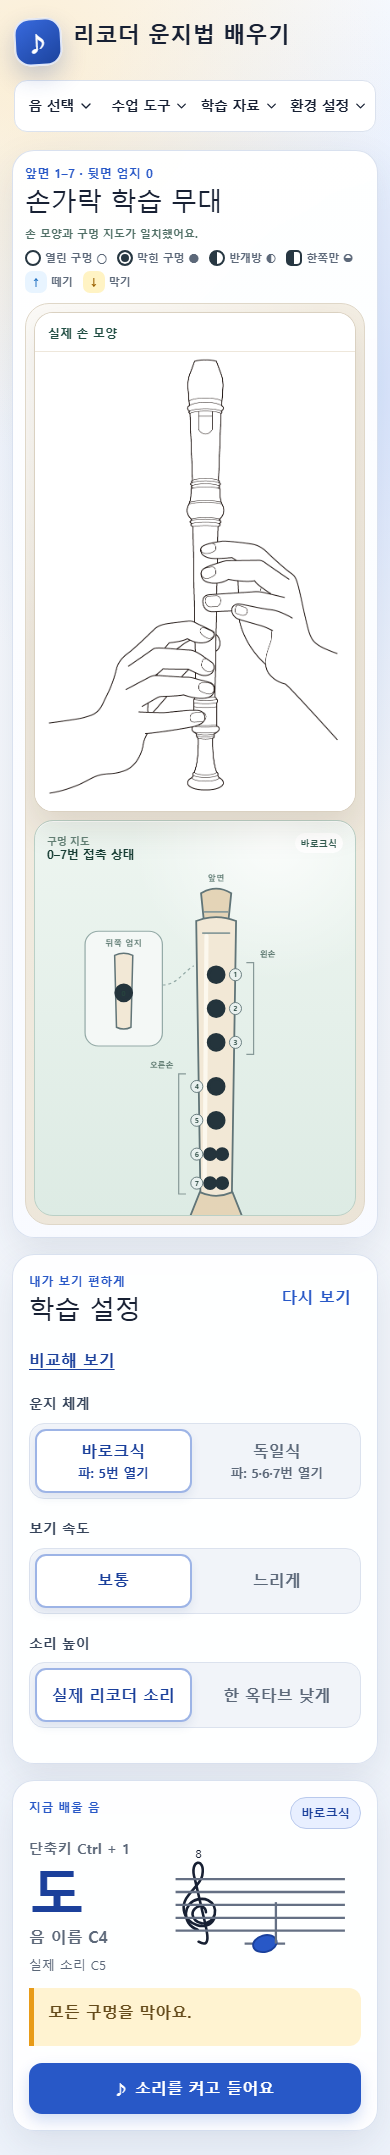
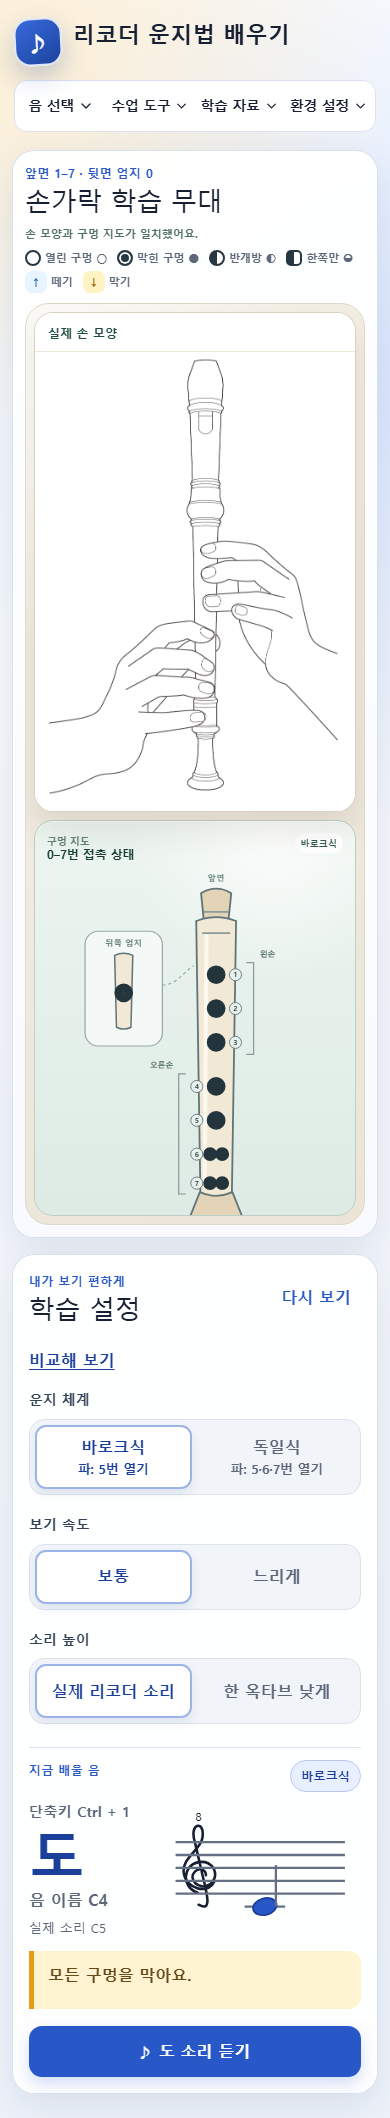
feat: merge note details into settings panel

diff --git a/app/teacher.css b/app/teacher.css
@@ -1,13 +1,13 @@
-/* Teacher workspace: the three teaching panels stay on the main screen. */
+/* Teacher workspace: the learning stage and merged control panel share one row. */
 .recorder-app:not([data-classroom]) .learning-grid {
   grid-template-columns: minmax(0, 1fr) clamp(160px, 14vw, 200px);
-  grid-template-rows: auto 1fr;
-  grid-template-areas: "scene settings" "scene note";
-  align-items: start;
+  grid-template-rows: auto;
+  grid-template-areas: "scene settings";
+  align-items: stretch;
 }
 .recorder-app:not([data-classroom]) .scene-card { padding: 4px; }
 .recorder-app:not([data-classroom]) .recorder-scene { gap: 3px; padding: 3px; }
-.recorder-app:not([data-classroom]) :is(.settings-area, .note-area) { min-width: 0; }
+.recorder-app:not([data-classroom]) .settings-area { position: relative; display: flex; min-width: 0; min-height: 0; }
 .app-header.teacher-header {
   position: relative;
   z-index: 30;
@@ -66,25 +66,49 @@
   font-weight: 700;
 }
 .teacher-menu-items :is(button, a):hover { background: var(--color-primary-soft); color: var(--color-primary-strong); }
-.recorder-app:not([data-classroom]) .settings-card { display: block; }
-.recorder-app:not([data-classroom]) .settings-card > .text-link { display: inline-block; margin: 0 0 12px; }
+.recorder-app:not([data-classroom]) .settings-card { display: flex; flex: 1 1 auto; min-width: 0; flex-direction: column; }
+.recorder-app:not([data-classroom]) .settings-card > .text-link { display: inline-block; margin: 0 0 8px; }
+.recorder-app:not([data-classroom]) .note-card--embedded {
+  min-width: 0;
+  margin-top: auto;
+  padding: 12px 0 0;
+  border-top: 1px solid var(--color-line);
+}
 @media (min-width: 761px) {
-  .recorder-app:not([data-classroom]) :is(.settings-area .settings-card, .note-area .note-card) { padding: 10px; }
-  .recorder-app:not([data-classroom]) .settings-area .settings-card > .section-heading-row {
-    align-items: stretch;
-    flex-direction: column;
-    gap: 6px;
+  .recorder-app:not([data-classroom]) .settings-area .settings-card {
+    position: absolute;
+    inset: 0;
+    overflow-y: auto;
+    overscroll-behavior: contain;
+    padding: 10px;
   }
-  .recorder-app:not([data-classroom]) .settings-area .settings-card > .section-heading-row .text-button { width: 100%; }
-  .recorder-app:not([data-classroom]) .settings-area .setting-fieldset { margin-bottom: 12px; }
-  .recorder-app:not([data-classroom]) .settings-area .segmented-control { grid-template-columns: minmax(0, 1fr) !important; }
-  .recorder-app:not([data-classroom]) .settings-area .segment-option { min-height: 48px; padding: 6px 4px; }
-  .recorder-app:not([data-classroom]) .note-area .card-eyebrow-row { flex-wrap: wrap; gap: 6px; }
-  .recorder-app:not([data-classroom]) .note-area .note-card-main { grid-template-columns: minmax(0, 1fr); }
-  .recorder-app:not([data-classroom]) .note-area .staff-note { min-width: 0; max-width: 100%; }
-  .recorder-app:not([data-classroom]) .note-area .current-solfege { font-size: 3rem; }
-  .recorder-app:not([data-classroom]) .note-area .note-short-instruction { min-height: 0; padding: 10px; }
-  .recorder-app:not([data-classroom]) .note-area .primary-button { padding-inline: 6px; }
+  .recorder-app:not([data-classroom]) .settings-area .settings-card > .section-heading-row {
+    align-items: center;
+    flex-direction: row;
+    gap: 4px;
+    margin-bottom: 8px;
+  }
+  .recorder-app:not([data-classroom]) .settings-area .settings-card > .section-heading-row > div { min-width: 0; }
+  .recorder-app:not([data-classroom]) .settings-area .settings-card > .section-heading-row .eyebrow { font-size: .65rem; }
+  .recorder-app:not([data-classroom]) .settings-area .settings-card > .section-heading-row h2 { font-size: 1.2rem; }
+  .recorder-app:not([data-classroom]) .settings-area .settings-card > .section-heading-row .text-button { min-height: 44px; padding-inline: 6px; font-size: .75rem; }
+  .recorder-app:not([data-classroom]) .settings-area .setting-fieldset { margin-bottom: 8px; }
+  .recorder-app:not([data-classroom]) .settings-area .setting-fieldset legend { margin-bottom: 4px; font-size: .75rem; }
+  .recorder-app:not([data-classroom]) .settings-area .segmented-control { grid-template-columns: repeat(2, minmax(0, 1fr)) !important; gap: 4px; padding: 3px; border-radius: 12px; }
+  .recorder-app:not([data-classroom]) .settings-area .segment-option { min-height: 52px; padding: 4px 2px; border-radius: 9px; }
+  .recorder-app:not([data-classroom]) .settings-area .segment-option span { font-size: .75rem; }
+  .recorder-app:not([data-classroom]) .settings-area .segment-option small { font-size: .65rem; line-height: 1.2; }
+  .recorder-app:not([data-classroom]) .note-card--embedded { padding-top: 9px; }
+  .recorder-app:not([data-classroom]) .note-card--embedded .card-eyebrow-row { align-items: center; flex-wrap: wrap; gap: 4px; }
+  .recorder-app:not([data-classroom]) .note-card--embedded .status-badge { min-height: 24px; padding: 3px 6px; font-size: .65rem; }
+  .recorder-app:not([data-classroom]) .note-card--embedded .note-card-main { grid-template-columns: minmax(0, 1fr); gap: 2px; margin: 4px 0 5px; }
+  .recorder-app:not([data-classroom]) .note-card--embedded .note-number { font-size: .72rem; }
+  .recorder-app:not([data-classroom]) .note-card--embedded .current-solfege { font-size: 2.35rem; line-height: 1.05; }
+  .recorder-app:not([data-classroom]) .note-card--embedded .note-name { font-size: .78rem; }
+  .recorder-app:not([data-classroom]) .note-card--embedded .sounding-pitch { margin-top: 2px; font-size: .7rem; }
+  .recorder-app:not([data-classroom]) .note-card--embedded .staff-note { min-width: 0; max-width: 100%; max-height: 80px; }
+  .recorder-app:not([data-classroom]) .note-card--embedded .note-short-instruction { min-height: 0; margin-bottom: 6px; padding: 6px 7px; border-left-width: 3px; border-radius: 0 8px 8px 0; font-size: .72rem; line-height: 1.35; }
+  .recorder-app:not([data-classroom]) .note-card--embedded .primary-button { min-height: 44px; padding: 6px 4px; gap: 4px; font-size: .75rem; }
 }
 .teacher-dialog-backdrop {
   position: fixed;
@@ -138,9 +162,10 @@
   .teacher-menu-trigger { width: 100%; min-height: 44px; padding: 8px 3px; gap: 4px; font-size: .85rem; }
   .teacher-menu-items { width: 190px; right: auto; left: 0; }
   .teacher-menu:nth-child(n+3) .teacher-menu-items { right: 0; left: auto; }
-  .recorder-app:not([data-classroom]) .learning-grid { grid-template-columns: minmax(0, 1fr); grid-template-rows: auto; grid-template-areas: "scene" "settings" "note"; gap: 16px; }
+  .recorder-app:not([data-classroom]) .learning-grid { grid-template-columns: minmax(0, 1fr); grid-template-rows: auto; grid-template-areas: "scene" "settings"; gap: 16px; }
   .recorder-app:not([data-classroom]) .scene-card { padding: 12px; }
   .recorder-app:not([data-classroom]) .recorder-scene { gap: 8px; padding: 8px; }
+  .recorder-app:not([data-classroom]) .note-card--embedded { margin-top: 4px; }
   .teacher-dialog-backdrop { padding: 10px; }
   .teacher-dialog { max-height: calc(100dvh - 20px); border-radius: 18px; }
   .teacher-dialog-heading { padding: 16px; }

diff --git a/e2e/recorder-learning.spec.ts b/e2e/recorder-learning.spec.ts
@@ -37,11 +37,13 @@ function hole(page: Page, id: string) { return page.locator(`[data-hole-id="${id
 
 test.beforeEach(async ({ page }) => { await page.addInitScript(() => localStorage.clear()); });
 
-test("main keeps only the three captured panels and tools open through nested menus", async ({ page }) => {
+test("main merges the current note into settings and keeps tools in nested menus", async ({ page }) => {
   await openAppAndChoose(page, "baroque");
   await expect(page.locator(".scene-card")).toBeVisible();
-  await expect(page.locator(".note-card")).toBeVisible();
   await expect(page.locator(".settings-card")).toBeVisible();
+  await expect(page.locator(".settings-card > .note-card--embedded")).toBeVisible();
+  await expect(page.locator(".note-area")).toHaveCount(0);
+  await expect(page.locator(".card.note-card")).toHaveCount(0);
   for (const selector of [".keypad-card", ".instruction-card", ".course-panel", ".onboarding-banner"]) {
     await expect(page.locator(selector)).toHaveCount(0);
   }
@@ -65,8 +67,16 @@ test("menu selection keeps all eight notes, staff and poses synchronized", async
   test.setTimeout(60_000);
   const errors = watchForBrowserErrors(page);
   await openAppAndChoose(page, "german");
+  const mergedNote = page.locator(".settings-card > .note-card--embedded");
   for (const note of NOTES) {
     await chooseNote(page, note.digit);
+    await expect(mergedNote.locator(".status-badge")).not.toHaveText("");
+    await expect(mergedNote.locator(".note-number")).toContainText(String(note.digit));
+    await expect(mergedNote.locator(".sounding-pitch")).toContainText(
+      note.name.replace(/\d$/, octave => String(Number(octave) + 1)),
+    );
+    await expect(mergedNote.locator(".staff-note")).toHaveAttribute("aria-label", new RegExp(note.solfege));
+    await expect(mergedNote.locator(".note-short-instruction")).not.toHaveText("");
     await expect(page.locator("#current-note-heading")).toHaveText(note.solfege);
     await expect(page.locator(".note-name")).toHaveText(`음 이름 ${note.name}`);
     await expect(page.getByTestId("live-region")).toContainText(`${note.subject} 선택되었습니다.`);
@@ -250,7 +260,11 @@ for (const viewport of [
         ".note-card",
         ".segmented-control",
         ".segment-option",
+        ".staff-note",
+        ".note-name",
+        ".sounding-pitch",
         ".note-short-instruction",
+        ".note-card .primary-button",
       ]) {
         for (const element of document.querySelectorAll<HTMLElement>(selector)) {
           if (element.clientWidth > 0 && element.scrollWidth > element.clientWidth + 1) localOverflow.push(selector);
@@ -315,6 +329,7 @@ for (const viewport of [
     const sceneCard = await page.locator(".scene-card").boundingBox();
     const settings = await page.locator(".settings-card").boundingBox();
     const currentNote = await page.locator(".note-card").boundingBox();
+    const soundButton = await page.locator(".note-card .primary-button").boundingBox();
     const firstSegmentOptions = await page.locator(".settings-card .segmented-control").first().locator(".segment-option").evaluateAll((elements) => elements.map((element) => {
       const bounds = element.getBoundingClientRect();
       return { x: bounds.x, y: bounds.y, width: bounds.width, height: bounds.height };
@@ -322,21 +337,44 @@ for (const viewport of [
     if (viewport.width > 760) {
       expect(settings!.width).toBeGreaterThanOrEqual(159);
       expect(settings!.width).toBeLessThanOrEqual(201);
-      expect(currentNote!.width).toBeCloseTo(settings!.width, 0);
-      expect(currentNote!.x).toBeCloseTo(settings!.x, 0);
       expect(sceneCard!.x + sceneCard!.width).toBeLessThanOrEqual(settings!.x);
       expect(sceneCard!.width).toBeGreaterThan(settings!.width);
-      expect(firstSegmentOptions[1].x).toBeCloseTo(firstSegmentOptions[0].x, 0);
-      expect(firstSegmentOptions[1].y).toBeGreaterThanOrEqual(firstSegmentOptions[0].y + firstSegmentOptions[0].height - 1);
+      expect(Math.abs(sceneCard!.y + sceneCard!.height - (settings!.y + settings!.height))).toBeLessThanOrEqual(2);
+      expect(Math.abs(firstSegmentOptions[1].y - firstSegmentOptions[0].y)).toBeLessThanOrEqual(1);
+      expect(firstSegmentOptions[1].x).toBeGreaterThanOrEqual(firstSegmentOptions[0].x + firstSegmentOptions[0].width - 1);
     } else {
       expect(settings!.y).toBeGreaterThanOrEqual(sceneCard!.y + sceneCard!.height);
-      expect(firstSegmentOptions[1].y).toBeCloseTo(firstSegmentOptions[0].y, 0);
+      expect(Math.abs(firstSegmentOptions[1].y - firstSegmentOptions[0].y)).toBeLessThanOrEqual(1);
       expect(firstSegmentOptions[1].x).toBeGreaterThanOrEqual(firstSegmentOptions[0].x + firstSegmentOptions[0].width - 1);
     }
-    const note = await page.locator(".note-card").boundingBox();
+    for (const option of firstSegmentOptions) expect(option.height).toBeGreaterThanOrEqual(44);
     const staff = await page.locator(".note-card .staff-note").boundingBox();
-    expect(staff!.x).toBeGreaterThanOrEqual(note!.x);
-    expect(staff!.x + staff!.width).toBeLessThanOrEqual(note!.x + note!.width);
+    expect(currentNote!.x).toBeGreaterThanOrEqual(settings!.x);
+    expect(currentNote!.x + currentNote!.width).toBeLessThanOrEqual(settings!.x + settings!.width);
+    expect(currentNote!.y).toBeGreaterThanOrEqual(settings!.y);
+    expect(staff!.width).toBeGreaterThan(0);
+    expect(staff!.height).toBeGreaterThan(0);
+    expect(staff!.x).toBeGreaterThanOrEqual(currentNote!.x);
+    expect(staff!.x + staff!.width).toBeLessThanOrEqual(currentNote!.x + currentNote!.width);
+    expect(staff!.y + staff!.height).toBeLessThanOrEqual(currentNote!.y + currentNote!.height + 1);
+    expect(soundButton!.y + soundButton!.height).toBeLessThanOrEqual(currentNote!.y + currentNote!.height + 1);
+    expect(soundButton!.height).toBeGreaterThanOrEqual(44);
+    if (currentNote!.y + currentNote!.height > settings!.y + settings!.height + 1) {
+      const scrollSize = await page.locator(".settings-card").evaluate(element => ({
+        clientHeight: element.clientHeight,
+        scrollHeight: element.scrollHeight,
+      }));
+      expect(scrollSize.scrollHeight).toBeGreaterThan(scrollSize.clientHeight);
+      await page.locator(".note-card .primary-button").scrollIntoViewIfNeeded();
+      const visibleSoundButton = await page.locator(".note-card .primary-button").boundingBox();
+      expect(visibleSoundButton!.y).toBeGreaterThanOrEqual(settings!.y);
+      expect(visibleSoundButton!.y + visibleSoundButton!.height).toBeLessThanOrEqual(settings!.y + settings!.height + 1);
+    }
+    if (viewport.width === 844) {
+      await page.locator(".note-card .primary-button").scrollIntoViewIfNeeded();
+      await page.locator(".note-card .primary-button").click();
+      await expect(page.getByTestId("recorder-scene")).toHaveAttribute("data-phase", "settled");
+    }
     expect(errors).toEqual([]);
   });
 }

diff --git a/src/features/recorder/tests/RecorderLearningApp.test.tsx b/src/features/recorder/tests/RecorderLearningApp.test.tsx
@@ -66,8 +66,16 @@ beforeEach(() => {
 afterEach(() => { vi.useRealTimers(); });
 
 describe("RecorderLearningApp", () => {
-  it("shows only the three teaching areas until a submenu is opened", async () => {
+  it("merges the current note into the settings card until a submenu is opened", async () => {
     await renderReadyApp();
+    const settingsCard = document.querySelector<HTMLElement>(".settings-card")!;
+    const noteCard = document.querySelector<HTMLElement>(".note-card")!;
+    expect(document.querySelector(".note-area")).not.toBeInTheDocument();
+    expect(settingsCard).toContainElement(noteCard);
+    expect(noteCard).toHaveClass("note-card--embedded");
+    expect(noteCard).not.toHaveClass("card");
+    expect(within(noteCard).getByRole("img")).toHaveClass("staff-note");
+    expect(within(noteCard).getByRole("button")).toHaveClass("primary-button");
     expect(screen.getByRole("heading", { name: "손가락 학습 무대" })).toBeInTheDocument();
     expect(screen.getByRole("heading", { name: "학습 설정" })).toBeInTheDocument();
     expect(currentNote()).toHaveTextContent("도");

diff --git a/src/features/recorder/components/RecorderLearningApp.tsx b/src/features/recorder/components/RecorderLearningApp.tsx
@@ -142,16 +142,16 @@ export function RecorderLearningApp() {
         </section>
 
         <div className="settings-area" hidden={classroom.active}>
-          <SettingsPanel {...settingsProps} />
-        </div>
-        <div className="note-area" hidden={classroom.active}>
-          <NoteCard
-            note={currentNote}
-            system={system}
-            onPlay={playCurrentNote}
-            muted={preferences.isMuted}
-            shortcutLabel={currentShortcutLabel}
-          />
+          <SettingsPanel {...settingsProps}>
+            <NoteCard
+              embedded
+              note={currentNote}
+              system={system}
+              onPlay={playCurrentNote}
+              muted={preferences.isMuted}
+              shortcutLabel={currentShortcutLabel}
+            />
+          </SettingsPanel>
         </div>
         {classroom.active ? <ClassroomControls lesson={lesson} /> : null}
       </main>

diff --git a/src/features/recorder/components/NoteCard.tsx b/src/features/recorder/components/NoteCard.tsx
@@ -3,6 +3,7 @@ import type { NoteMeta } from "../data/noteMeta";
 import { StaffNote } from "./StaffNote";
 
 interface NoteCardProps {
+  embedded?: boolean;
   note: NoteMeta;
   system: FingeringSystem;
   onPlay: () => void;
@@ -11,6 +12,7 @@ interface NoteCardProps {
 }
 
 export function NoteCard({
+  embedded = false,
   note,
   system,
   onPlay,
@@ -20,7 +22,10 @@ export function NoteCard({
   const systemLabel = system === "baroque" ? "바로크식" : "독일식";
 
   return (
-    <section className="card note-card" aria-labelledby="current-note-heading">
+    <section
+      className={embedded ? "note-card note-card--embedded" : "card note-card"}
+      aria-labelledby="current-note-heading"
+    >
       <div className="card-eyebrow-row">
         <p className="eyebrow">지금 배울 음</p>
         <span className="status-badge">{systemLabel}</span>

diff --git a/src/features/recorder/components/SettingsPanel.tsx b/src/features/recorder/components/SettingsPanel.tsx
@@ -1,10 +1,12 @@
 import type { FingeringSystem } from "../model/types";
 import type { AnimationSpeed } from "../animation/motionTimings";
+import type { ReactNode } from "react";
 import { SegmentedControl } from "./SegmentedControl";
 import { ToggleRow } from "./ToggleRow";
 import Link from "next/link";
 
 interface SettingsPanelProps {
+  children?: ReactNode;
   theme: "default" | "high-contrast";
   onThemeChange: (theme: "default" | "high-contrast") => void;
   system: FingeringSystem;
@@ -71,6 +73,7 @@ export function SettingsPanel(props: SettingsPanelProps) {
           { value: "written", label: "한 옥타브 낮게" },
         ]}
       />
+      {props.children}
     </section>
   );
 }
